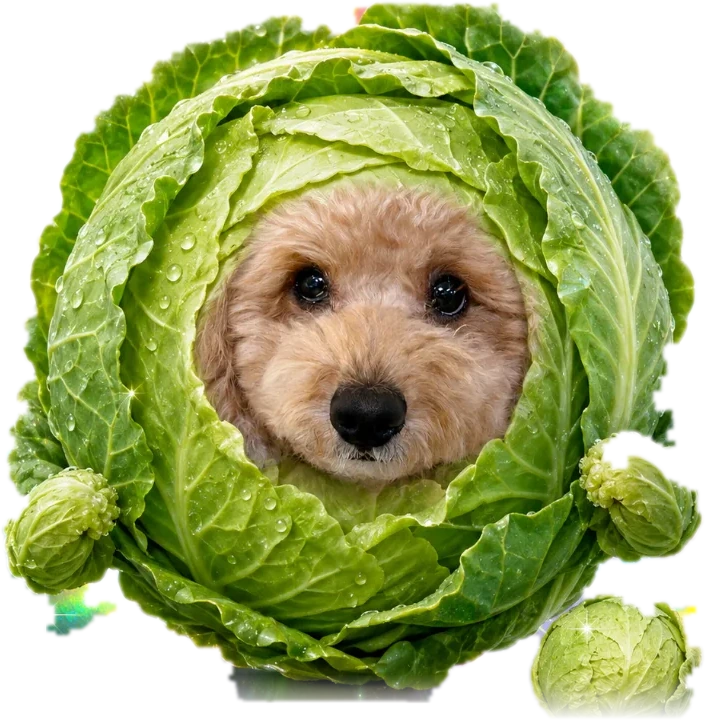
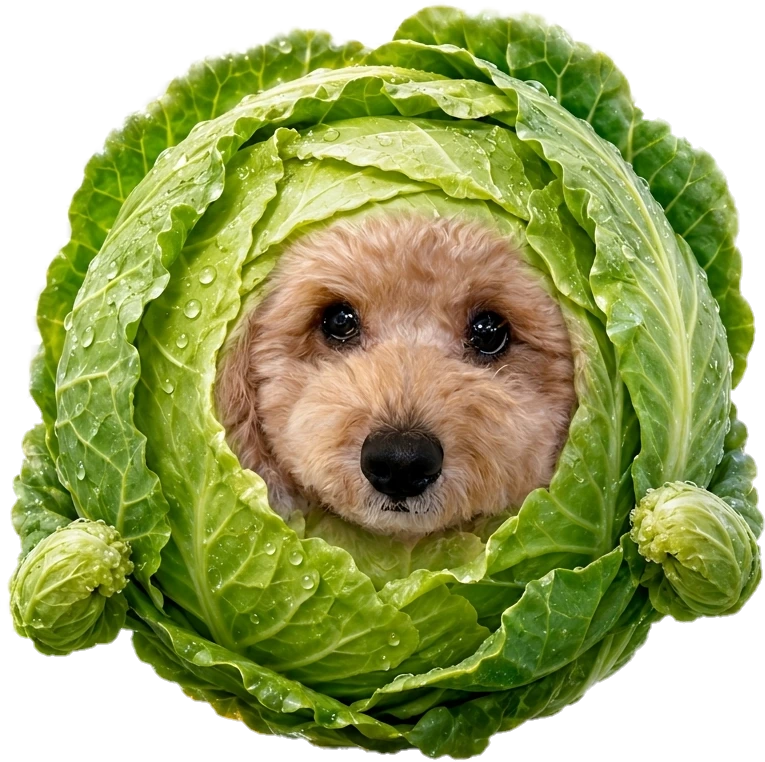
fix: 손누끼 주인공으로 교체, 배경 가로 확장, 접지 그림자
확인 결과 패럴랙스는 보이는데 (1) PC 에서 하늘이 안 보이고 텃밭만 나오고
(2) 주인공이 배경과 따로 논다는 지적. 원인이 각각 달라 따로 고쳤다.

주인공 — 손으로 딴 누끼(subject_2)로 교체:
- 진짜 알파다. 완전투명 57%, 가장자리 반투명 1.7%. 색으로 갈랐던 내 누끼와 달리
  무지개 조각이 없고 **배추 밑동이 안 잘려 있다** (그래서 밑동 페이드도 필요 없다)
- tools 에 trim 모드 추가 — 알파는 있는데 구석에 알파 1~2 짜리 먼지가 남아 있으면
  경계 상자가 캔버스 전체가 돼서 CSS 로 크기를 못 잡는다. 털고 딱 맞게 자른다

하늘이 안 보이던 것 — 원화가 1.13:1 인데 화면은 1.9:1 이라 cover 가 좌우를 맞추며
위아래를 잘라내고 있었다:
- back 모드가 좌우에 거울 날개를 붙여 2:1 로 만든다 (1339x670)
- 거울 자체는 안 보이는데 좌우 대칭이 눈에 띄어서, 바깥 30% 를 흐리고 어둡게 했다.
  대칭이 안 읽히고 덤으로 피사계심도가 생긴다
- .dio-back 의 --k 1.2 -> 1.06. 넓혀 놓고 또 확대하면 도로 잘린다
- 비네팅을 위아래 비대칭으로. 흙은 깊게 누르고 하늘은 살린다

따로 놀던 것 — 색이 아니라 **떠 있는 게** 원인이었다:
- .dio-ground 접지 그림자 추가. 지면에 닿은 자국이 있어야 놓인 걸로 읽힌다
- 주인공에 brightness(.92). 원화는 대낮 조명, 장면은 해 뜨기 직전이라 광원이 어긋난다

diff --git a/immersive.css b/immersive.css
@@ -167,9 +167,12 @@
    잎사귀 하나하나, 이랑, 지평선처럼 **윤곽이 있는** 것들이라 밀리면 눈에 보인다.
    예전엔 같은 카드 그림을 blur(72px) 로 깔았는데, 흐린 덩어리는 아무리 밀어도
    움직이는 게 보이지 않았다 — 패럴랙스는 눈이 따라갈 기준점이 있어야 성립한다. */
+/* --k 를 크게 잡으면 안 된다. 원화를 일부러 2:1 로 넓혀 놨는데 여기서 또 확대하면
+   cover 가 좌우를 맞추면서 위아래를 잘라내 **하늘이 사라지고 텃밭만** 남는다.
+   패럴랙스로 밀리는 12px 을 덮을 만큼만 키운다. */
 .dio-back .dio-move {
   --par: 12;
-  --k: 1.2;
+  --k: 1.06;
   background: var(--back) center / cover no-repeat;
 }
 
@@ -177,13 +180,16 @@
    가리고 주인공을 띄우려고 어둡게 깔고 비네팅을 씌운다.
    이건 레이어(.dio-back)에 건다 — .dio-move 에 걸면 비네팅까지 같이 밀려서
    화면 한쪽 구석이 밝아진다. */
+/* 위아래를 다르게 덮는다. 사방을 고르게 어둡게 하면 하늘까지 뭉개져서 장면이
+   텃밭 한 덩어리로 보인다. 흙(아래)은 깊게 눌러 주인공을 띄우고, 하늘(위)은 살린다. */
 .dio-back::after {
   content: "";
   position: absolute;
   inset: 0;
   background:
-    radial-gradient(ellipse 66% 56% at 50% 44%, transparent 28%, rgba(2, 6, 3, .74) 100%),
-    linear-gradient(to top, rgba(2, 6, 3, .88) 0%, transparent 44%);
+    linear-gradient(to top,
+      rgba(2, 6, 3, .84) 0%, rgba(2, 6, 3, .22) 34%, transparent 58%),
+    radial-gradient(ellipse 92% 80% at 50% 54%, transparent 46%, rgba(2, 6, 3, .5) 100%);
 }
 
 /* 2. 빛줄기 — 아주 천천히 돈다. 회전은 ::before 가 맡는다.
@@ -249,9 +255,30 @@
   height: min(58svh, 560px);
   width: auto;
   transform: rotateX(calc(var(--py) * -6deg)) rotateY(calc(var(--px) * 9deg));
+  /* 배추 원화는 대낮 조명인데 장면은 해 뜨기 직전이다. 광원이 안 맞으면 아무리
+     자리를 잘 잡아도 오려 붙인 것처럼 보인다. 살짝 눌러 새벽 쪽으로 당긴다. */
   filter:
+    brightness(.92) saturate(1.03) contrast(1.02)
     drop-shadow(0 24px 38px rgba(0, 0, 0, .62))
-    drop-shadow(0 0 64px color-mix(in srgb, var(--accent) 38%, transparent));
+    drop-shadow(0 0 64px color-mix(in srgb, var(--accent) 34%, transparent));
+}
+
+/* 접지 그림자 — "따로 논다"의 진짜 원인은 색이 아니라 **떠 있다**는 것이다.
+   지면에 닿은 자국이 있어야 놓여 있는 걸로 읽힌다.
+   .dio-move 는 grid place-items:center 라 그냥 두면 이 타원도 한가운데 서 버린다.
+   그래서 absolute 로 빼서 주인공 밑동 높이에 맞춘다 — 주인공이 min(58svh,560px)
+   높이로 가운데 서 있으니 그 절반만큼 내려온 자리가 밑동이다. */
+.dio-ground {
+  position: absolute;
+  left: 50%;
+  top: calc(50% + min(25svh, 242px));
+  width: min(34svh, 330px);
+  height: min(7svh, 66px);
+  transform: translate(-50%, -50%);
+  border-radius: 50%;
+  background: radial-gradient(ellipse,
+    rgba(0, 0, 0, .62), rgba(0, 0, 0, .26) 52%, transparent 74%);
+  filter: blur(12px);
 }
 
 /* 5. 자막 — 카드보다 조금 앞. 이름·코드만 여기 있고, 조작하는 것(닫기 버튼)은
